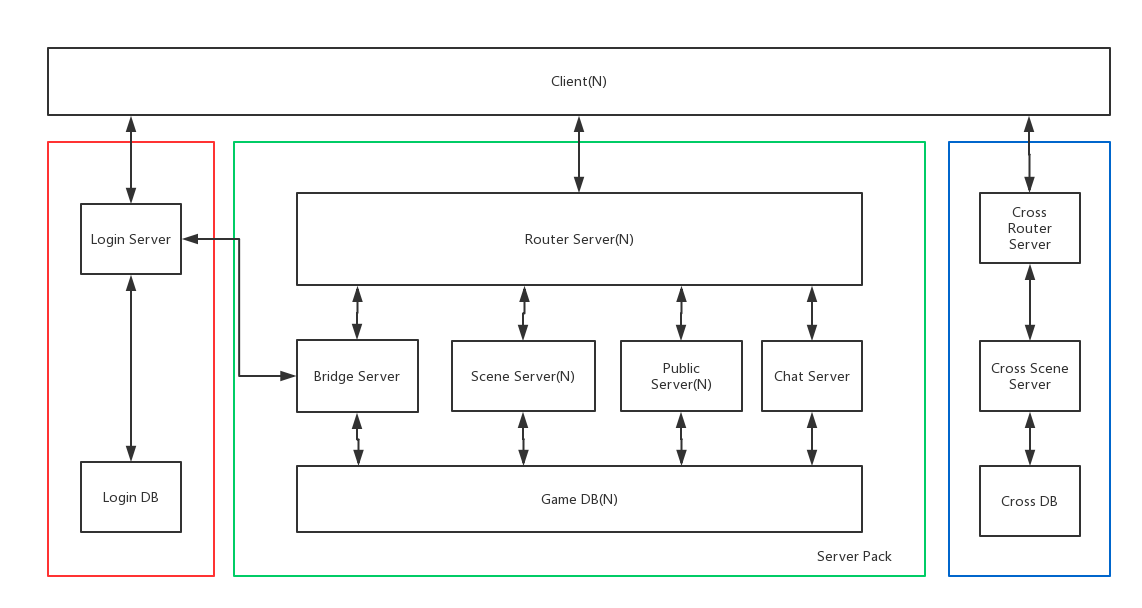
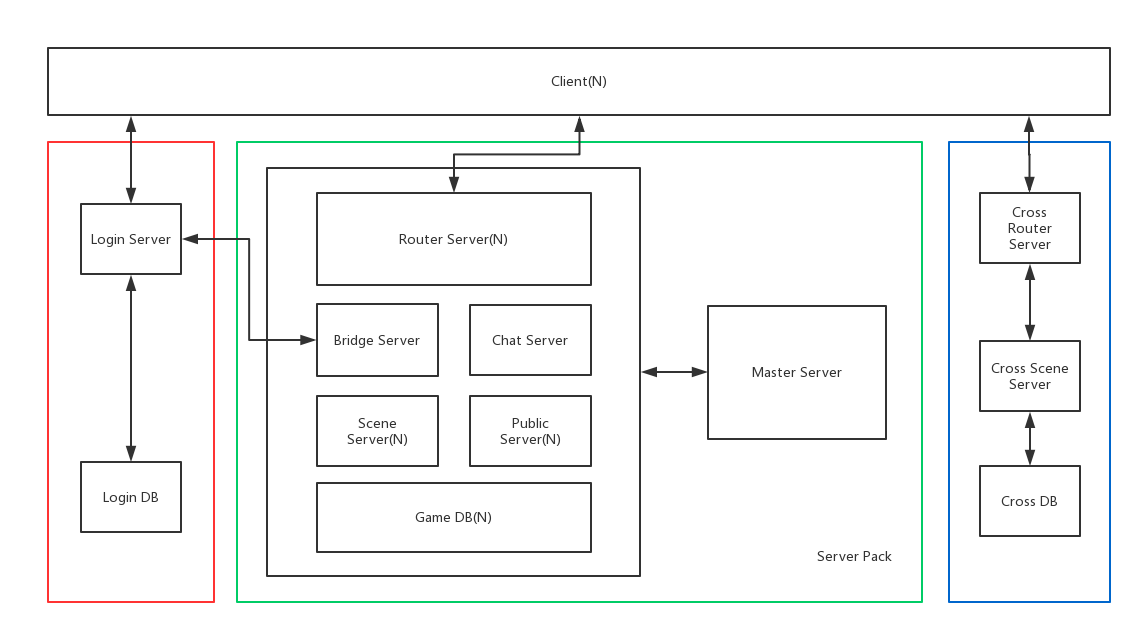
update readme to new server topology

diff --git a/README.md b/README.md
@@ -6,6 +6,8 @@ MassNet is a simple game server framework, build by C++ and lua, config use xml.
 
 Main framework:  
 ![main](pictures/MassNet-main.png)
+In the Server Pack, every server connect to other server directly.  
+
 
 Server core:  
 ![core](pictures/MassNet-core.png)
